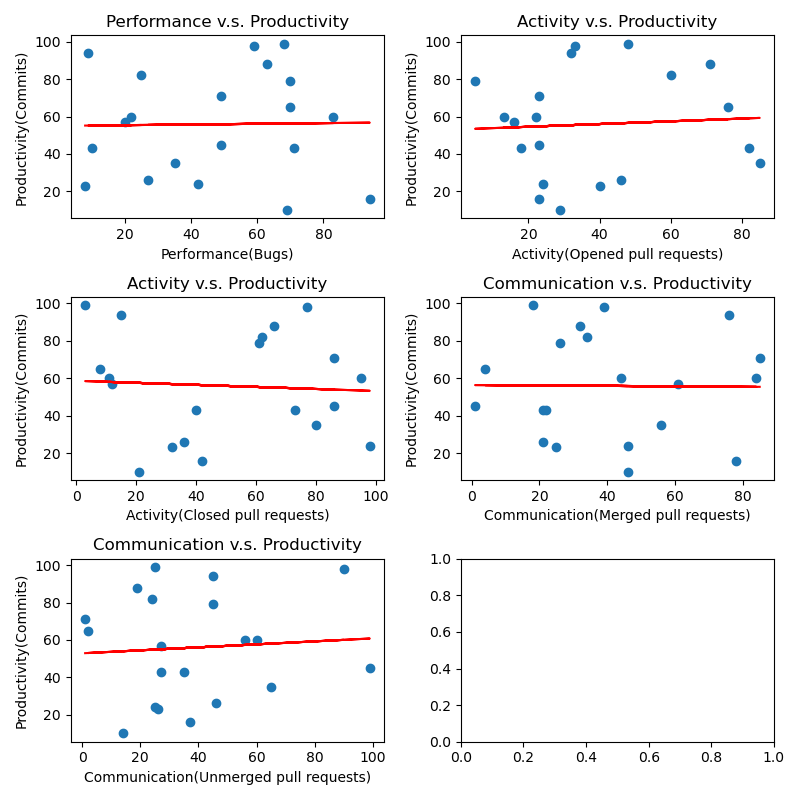
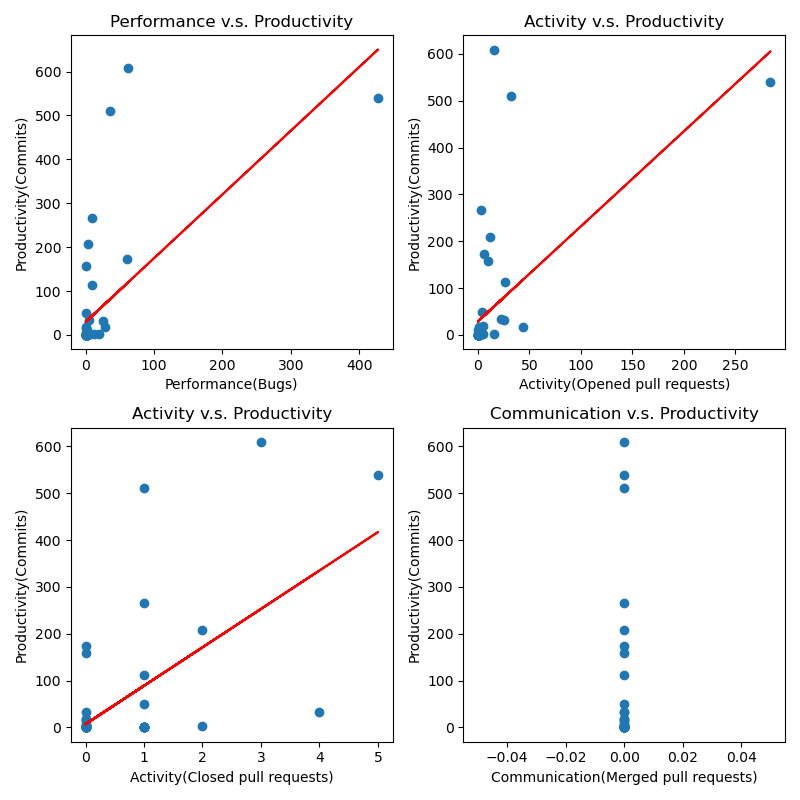
resolved conflict

diff --git a/code/regression_plots.py b/code/regression_plots.py
@@ -6,17 +6,17 @@ from sklearn.linear_model import LinearRegression
 # read_file = pd.read_excel(r'~\ecs260-final-project\metrics_dummydata.xlsx', sheet_name='metrics_dummydata')
 # read_file.to_csv(r'~\ecs260-final-project\metrics_dummydata.csv', index=None, header=True)
 
-data = pd.read_csv('../dataset/metrics_dummydata.csv')  # load data set
+data = pd.read_csv('../dataset/gunrock.csv')  # load data set
 
 ## Performance(num_bugs) vs Productivity(num_commits)
-num_commits = data.iloc[:, 1].values.reshape(-1, 1)  # (Y-value) values converts it into a numpy array
+num_commits = data.iloc[:, 5].values.reshape(-1, 1)  # (Y-value) values converts it into a numpy array
 
-num_bugs = data.iloc[:, 2].values.reshape(-1, 1)  # (X-value) -1 means that calculate the dimension of rows, but have 1 column
+num_bugs = data.iloc[:, 1].values.reshape(-1, 1)  # (X-value) -1 means that calculate the dimension of rows, but have 1 column
 linear_regressor = LinearRegression()  # create object for the class
 linear_regressor.fit(num_bugs, num_commits)  # perform linear regression
 num_commits_pred = linear_regressor.predict(num_bugs)  # make predictions
 
-fig, ax = plt.subplots(3, 2, figsize = (8,8))
+fig, ax = plt.subplots(2, 2, figsize = (8,8))
 ax[0,0].scatter(num_bugs, num_commits)
 ax[0,0].plot(num_bugs, num_commits_pred, color='red')
 ax[0,0].set_title("Performance v.s. Productivity")
@@ -28,7 +28,7 @@ ax[0,0].set_ylabel("Productivity(Commits)")
 # plt.plot(num_bugs, num_commits_pred, color='red')
 
 ## Activity(PR_opened) vs Productivity(num_commits)
-PR_opened = data.iloc[:, 3].values.reshape(-1, 1)  # (X-value) -1 means that calculate the dimension of rows, but have 1 column
+PR_opened = data.iloc[:, 2].values.reshape(-1, 1)  # (X-value) -1 means that calculate the dimension of rows, but have 1 column
 linear_regressor = LinearRegression()  # create object for the class
 linear_regressor.fit(PR_opened, num_commits)  # perform linear regression
 num_commits_pred = linear_regressor.predict(PR_opened)  # make predictions
@@ -45,7 +45,7 @@ ax[0,1].set_ylabel("Productivity(Commits)")
 
 
 ## Activity(PR_closed) vs Productivity(num_commits)
-PR_closed = data.iloc[:, 4].values.reshape(-1, 1)  # (X-value) -1 means that calculate the dimension of rows, but have 1 column
+PR_closed = data.iloc[:, 3].values.reshape(-1, 1)  # (X-value) -1 means that calculate the dimension of rows, but have 1 column
 linear_regressor = LinearRegression()  # create object for the class
 linear_regressor.fit(PR_closed, num_commits)  # perform linear regression
 num_commits_pred = linear_regressor.predict(PR_closed)  # make predictions
@@ -62,7 +62,7 @@ ax[1,0].set_ylabel("Productivity(Commits)")
 
 
 ## Communication(PR_merged) vs Productivity(num_commits)
-PR_merged = data.iloc[:, 5].values.reshape(-1, 1)  # (X-value) -1 means that calculate the dimension of rows, but have 1 column
+PR_merged = data.iloc[:, 4].values.reshape(-1, 1)  # (X-value) -1 means that calculate the dimension of rows, but have 1 column
 linear_regressor = LinearRegression()  # create object for the class
 linear_regressor.fit(PR_merged, num_commits)  # perform linear regression
 num_commits_pred = linear_regressor.predict(PR_merged)  # make predictions
@@ -78,17 +78,17 @@ ax[1,1].set_ylabel("Productivity(Commits)")
 # plt.plot(PR_merged, num_commits_pred, color='red')
 
 
-## Communication(PR_unmerged) vs Productivity(num_commits)
-PR_unmerged = data.iloc[:, 6].values.reshape(-1, 1)  # (X-value) -1 means that calculate the dimension of rows, but have 1 column
-linear_regressor = LinearRegression()  # create object for the class
-linear_regressor.fit(PR_unmerged, num_commits)  # perform linear regression
-num_commits_pred = linear_regressor.predict(PR_unmerged)  # make predictions
+# ## Communication(PR_unmerged) vs Productivity(num_commits)
+# PR_unmerged = data.iloc[:, 6].values.reshape(-1, 1)  # (X-value) -1 means that calculate the dimension of rows, but have 1 column
+# linear_regressor = LinearRegression()  # create object for the class
+# linear_regressor.fit(PR_unmerged, num_commits)  # perform linear regression
+# num_commits_pred = linear_regressor.predict(PR_unmerged)  # make predictions
 
-ax[2,0].scatter(PR_unmerged, num_commits)
-ax[2,0].plot(PR_unmerged, num_commits_pred, color='red')
-ax[2,0].set_title("Communication v.s. Productivity")
-ax[2,0].set_xlabel("Communication(Unmerged pull requests)")
-ax[2,0].set_ylabel("Productivity(Commits)")
+# ax[2,0].scatter(PR_unmerged, num_commits)
+# ax[2,0].plot(PR_unmerged, num_commits_pred, color='red')
+# ax[2,0].set_title("Communication v.s. Productivity")
+# ax[2,0].set_xlabel("Communication(Unmerged pull requests)")
+# ax[2,0].set_ylabel("Productivity(Commits)")
 
 # plt.subplot(3, 2, 5)
 # plt.scatter(PR_unmerged, num_commits)
